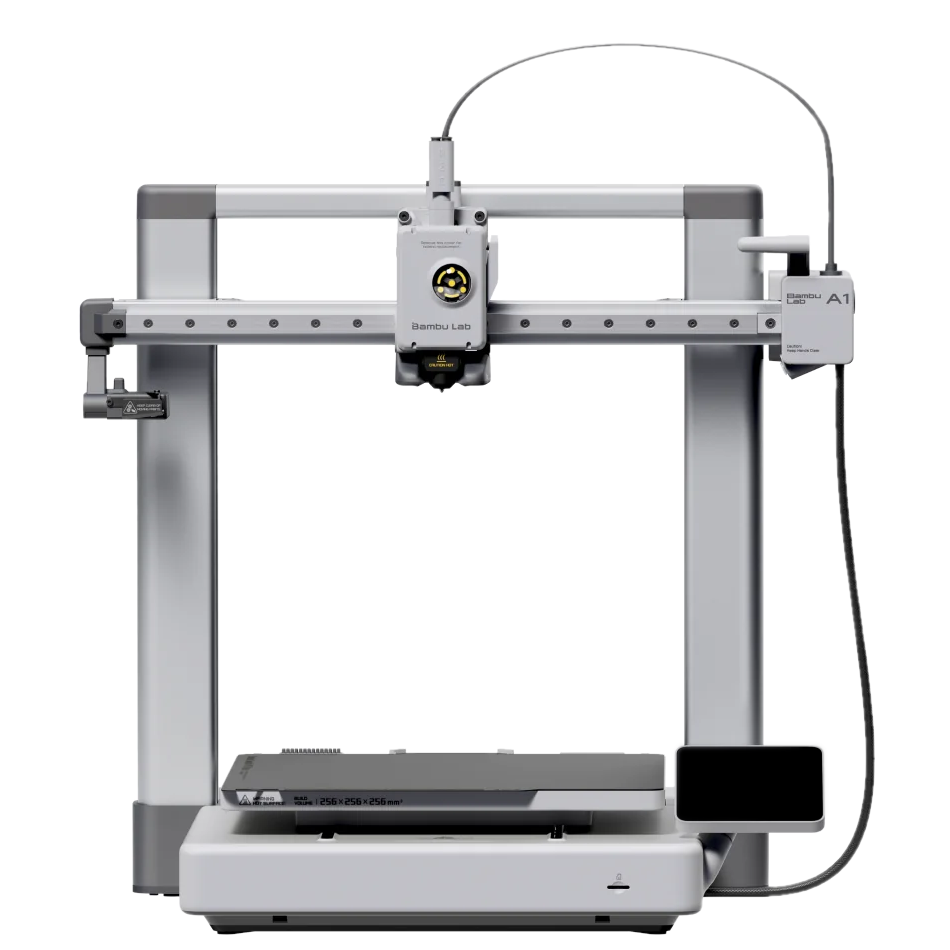
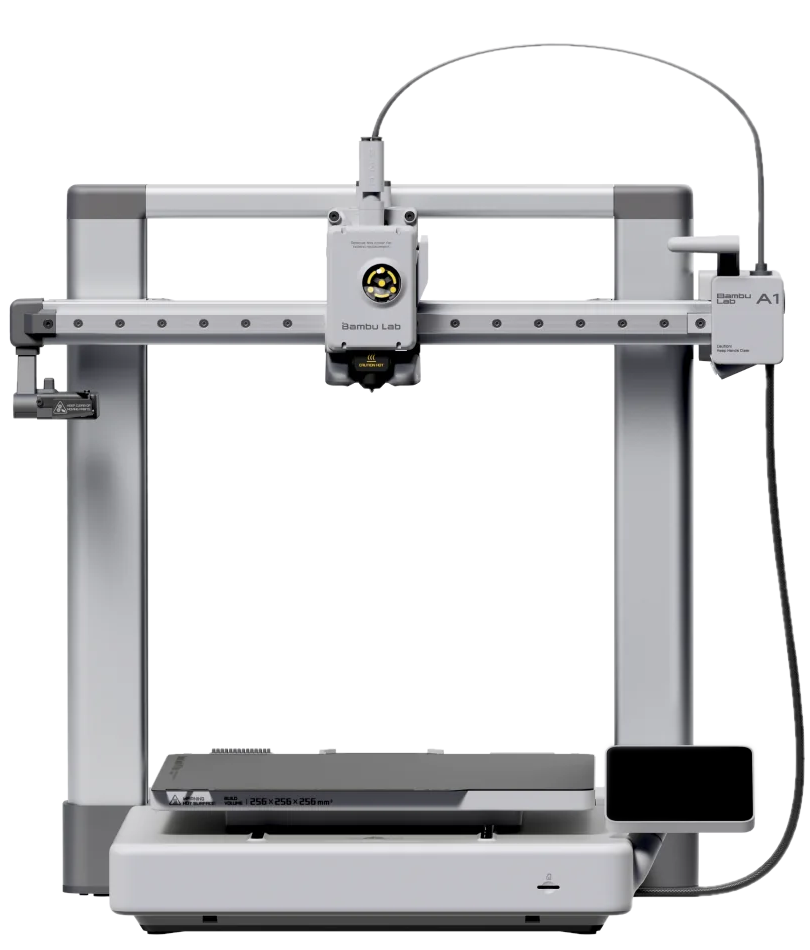
Remove transparent padding in images (#12)
* Remove transparent padding in images

* Fixes

diff --git a/src/cards/print-status-card/print-status-card.ts b/src/cards/print-status-card/print-status-card.ts
@@ -79,13 +79,13 @@ export class PrintControlCard extends LitElement {
 
   private A1EntityUX: { [key: string]: EntityUX } = {
 //    hms:                  { x: 90, y:10, width:20,  height:20 },  // binary_sensor
-    chamber_light:        { x: 46.5, y:28,   width:20,  height:20 },  // light
-    nozzle_temp:          { x: 46.5, y:38,   width:25,  height:20 },  // sensor
-    cover_image:          { x: 46.5, y:58,   width:150, height:150 }, // image
-    bed_temp:             { x: 46.5, y:82,   width:25,  height:20 },  // sensor
-    print_progress:       { x: 78, y:81,     width:25,  height:20 },  // sensor
-    remaining_time:       { x: 78, y:85,     width:100, height:20 },  // sensor
-    stage:                { x: 46.5, y:92.5, width:300, height:20 },  // sensor
+    chamber_light:        { x: 46, y:30,   width:20,  height:20 },  // light
+    nozzle_temp:          { x: 46, y:42,   width:25,  height:20 },  // sensor
+    cover_image:          { x: 46, y:60,   width:150, height:150 }, // image
+    bed_temp:             { x: 46, y:81,   width:25,  height:20 },  // sensor
+    print_progress:       { x: 85, y:81,   width:25,  height:20 },  // sensor
+    remaining_time:       { x: 85, y:85,   width:100, height:20 },  // sensor
+    stage:                { x: 46, y:92.5, width:300, height:20 },  // sensor
   };
 
   private A1MiniEntityUX: { [key: string]: EntityUX } = {
@@ -101,42 +101,42 @@ export class PrintControlCard extends LitElement {
 
 
   private P1PEntityUX: { [key: string]: EntityUX } = {
-    print_progress:       { x: 27, y:9.5, width:25,  height:20 },  // sensor
-    remaining_time:       { x: 60, y:10,  width:100, height:20 },  // sensor
+    print_progress:       { x: 23, y:9.5, width:25,  height:20 },  // sensor
+    remaining_time:       { x: 59, y:10,  width:100, height:20 },  // sensor
 //    hms:                  { x: 90,   y:10,  width:20,  height:20 },  // binary_sensor
-    chamber_light:        { x: 20, y:25,  width:20,  height:20 },  // light
-    chamber_fan_speed:    { x: 80, y:25,  width:70,  height:25 },  // fan
-    nozzle_temp:          { x: 50, y:31,  width:25,  height:20 },  // sensor
+    chamber_light:        { x: 10, y:24,  width:20,  height:20 },  // light
+    chamber_fan_speed:    { x: 90, y:24,  width:70,  height:25 },  // fan
+    nozzle_temp:          { x: 50, y:35,  width:25,  height:20 },  // sensor
     chamber_temp:         { x: 80, y:32,  width:20,  height:20 },  // sensor
-    aux_fan_speed:        { x: 20, y:52,  width:70,  height:25 },  // fan
-    cover_image:          { x: 50, y:53,  width:150, height:150 }, // image
-    bed_temp:             { x: 50, y:75,  width:25,  height:20 },  // sensor
+    aux_fan_speed:        { x: 9,  y:60,  width:70,  height:25 },  // fan
+    cover_image:          { x: 50, y:57,  width:150, height:150 }, // image
+    bed_temp:             { x: 50, y:76,  width:25,  height:20 },  // sensor
     stage:                { x: 50, y:93,  width:300, height:20 },  // sensor
   };
 
   private P1SEntityUX: { [key: string]: EntityUX } = {
 //    hms:                  { x: 90, y:10,  width:20,  height:20 },  // binary_sensor
-    print_progress:       { x: 27, y:6,   width:25,  height:20 },  // sensor
-    remaining_time:       { x: 60, y:6.5, width:100, height:20 },  // sensor
-    chamber_light:        { x: 20, y:25,  width:20,  height:20 },  // light
-    chamber_fan_speed:    { x: 80, y:25,  width:70,  height:25 },  // fan
-    nozzle_temp:          { x: 50, y:31,  width:25,  height:20 },  // sensor
+    print_progress:       { x: 23, y:6,   width:25,  height:20 },  // sensor
+    remaining_time:       { x: 59, y:6.5, width:100, height:20 },  // sensor
+    chamber_light:        { x: 10, y:24,  width:20,  height:20 },  // light
+    chamber_fan_speed:    { x: 90, y:24,  width:70,  height:25 },  // fan
+    nozzle_temp:          { x: 50, y:35,  width:25,  height:20 },  // sensor
     chamber_temp:         { x: 80, y:32,  width:20,  height:20 },  // sensor
-    aux_fan_speed:        { x: 20, y:52,  width:70,  height:25 },  // fan
+    aux_fan_speed:        { x: 9,  y:52,  width:70,  height:25 },  // fan
     cover_image:          { x: 50, y:53,  width:150, height:150 }, // image
-    bed_temp:             { x: 50, y:75,  width:25,  height:20 },  // sensor
+    bed_temp:             { x: 50, y:72,  width:25,  height:20 },  // sensor
     stage:                { x: 50, y:91,  width:300, height:20 },  // sensor
   };
 
   private X1CEntityUX: { [key: string]: EntityUX } = {
 //    hms:                  { x: 90, y:10, width:20,  height:20 },  // binary_sensor
-    print_progress:       { x: 33, y:6,  width:25,  height:20 },  // sensor
-    remaining_time:       { x: 33, y:11, width:100, height:20 },  // sensor
-    chamber_light:        { x: 20, y:25, width:20,  height:20 },  // light
-    chamber_fan_speed:    { x: 80, y:25, width:70,  height:25 },  // fan
+    print_progress:       { x: 29, y:6,  width:25,  height:20 },  // sensor
+    remaining_time:       { x: 29, y:11, width:100, height:20 },  // sensor
+    chamber_light:        { x: 10, y:25, width:20,  height:20 },  // light
+    chamber_fan_speed:    { x: 90, y:25, width:70,  height:25 },  // fan
     nozzle_temp:          { x: 50, y:31, width:25,  height:20 },  // sensor
-    chamber_temp:         { x: 80, y:32, width:20,  height:20 },  // sensor
-    aux_fan_speed:        { x: 20, y:52, width:70,  height:25 },  // fan
+    chamber_temp:         { x: 90, y:32, width:20,  height:20 },  // sensor
+    aux_fan_speed:        { x: 10, y:52, width:70,  height:25 },  // fan
     cover_image:          { x: 50, y:53, width:150, height:150 }, // image
     bed_temp:             { x: 50, y:75, width:25,  height:20 },  // sensor
     stage:                { x: 50, y:93, width:300, height:20 },  // sensor
